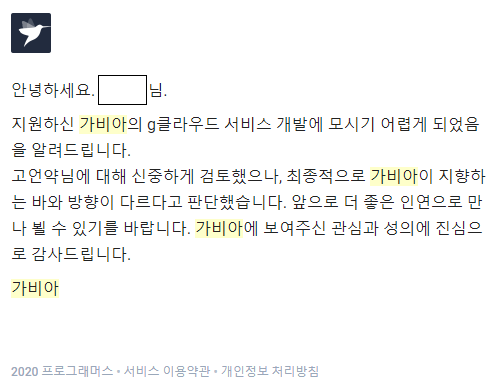
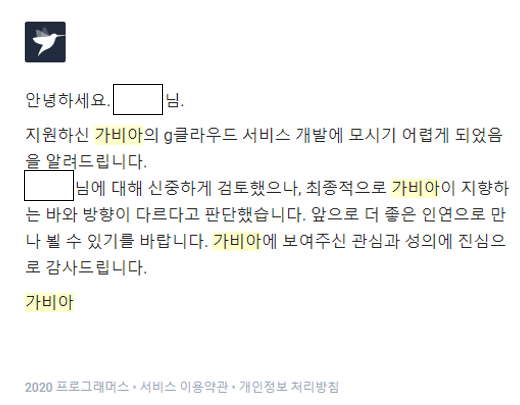
Fix img

diff --git a/Article/Note/가비아_면접_후기/가비아_면접_후기.md b/Article/Note/가비아_면접_후기/가비아_면접_후기.md
@@ -25,7 +25,7 @@
 # 이미,,
 
 <br />
-<img src="https://github.com/KoEonYack/Tistory-Coveant/blob/master/Article/Note/%EA%B0%80%EB%B9%84%EC%95%84_%EB%A9%B4%EC%A0%91_%ED%9B%84%EA%B8%B0/img/prog.png?raw=true" align="center" style="display: block; margin: 0px auto; display: block; height: auto; border:1px solid #eaeaea; padding: 0px;" width="" >
+<img src="https://github.com/KoEonYack/Tistory-Coveant/blob/master/Article/Note/%EA%B0%80%EB%B9%84%EC%95%84_%EB%A9%B4%EC%A0%91_%ED%9B%84%EA%B8%B0/img/prog_2.png?raw=true" align="center" style="display: block; margin: 0px auto; display: block; height: auto; border:1px solid #eaeaea; padding: 0px;" width="" >
 <br />
 <center> 팡탈했던,, 데브매치 </center>
 <br />
